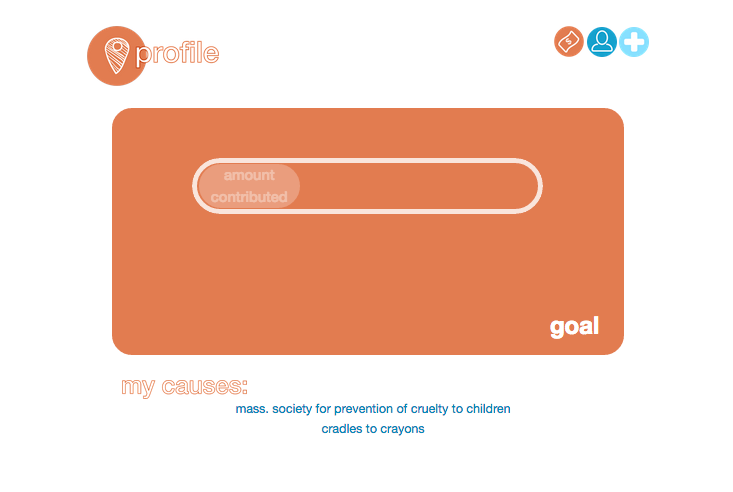
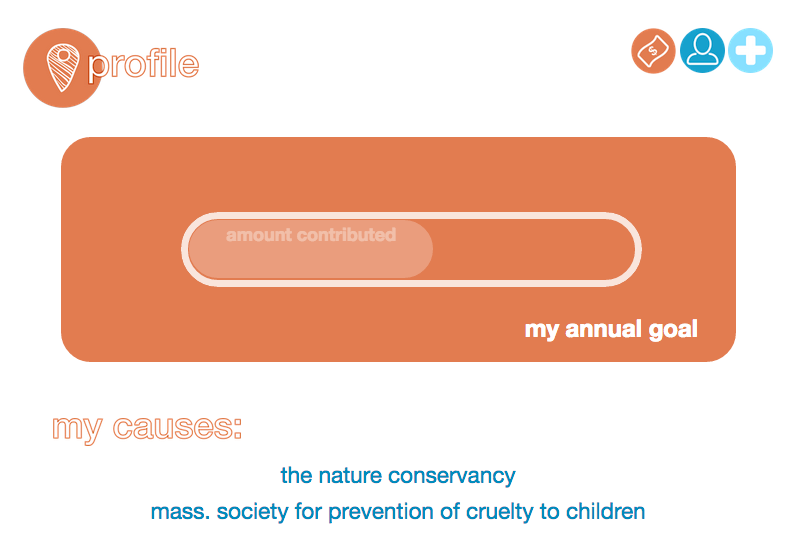
Changed profile page design, removed manifest, changed readme

diff --git a/app/assets/stylesheets/application.scss b/app/assets/stylesheets/application.scss
@@ -72,6 +72,10 @@ $border-color: #efefef;
   border-radius: 100px;
   border-width: 10px;
   border-color: white;
+  color: white;
+  font-size: 150%;
+  font-family: HelveticaNeue-Bold;
+  text-align: center;
 
 }
 

diff --git a/README.md b/README.md
@@ -2,7 +2,7 @@
 
 give local is a Rails App that surfaces local causes and charities and enables seamless and hassle-free giving.
 
-give local features a different charity every day, through a random selection algorithm, to make choosing a charity or cause simple and easy:
+give local features a different charity upon refresh, through the use of Ruby Gem 'freshie', to make choosing a charity or cause simple and easy:
 
 ![alt tag](/screenshots/feature_page.png)
 
